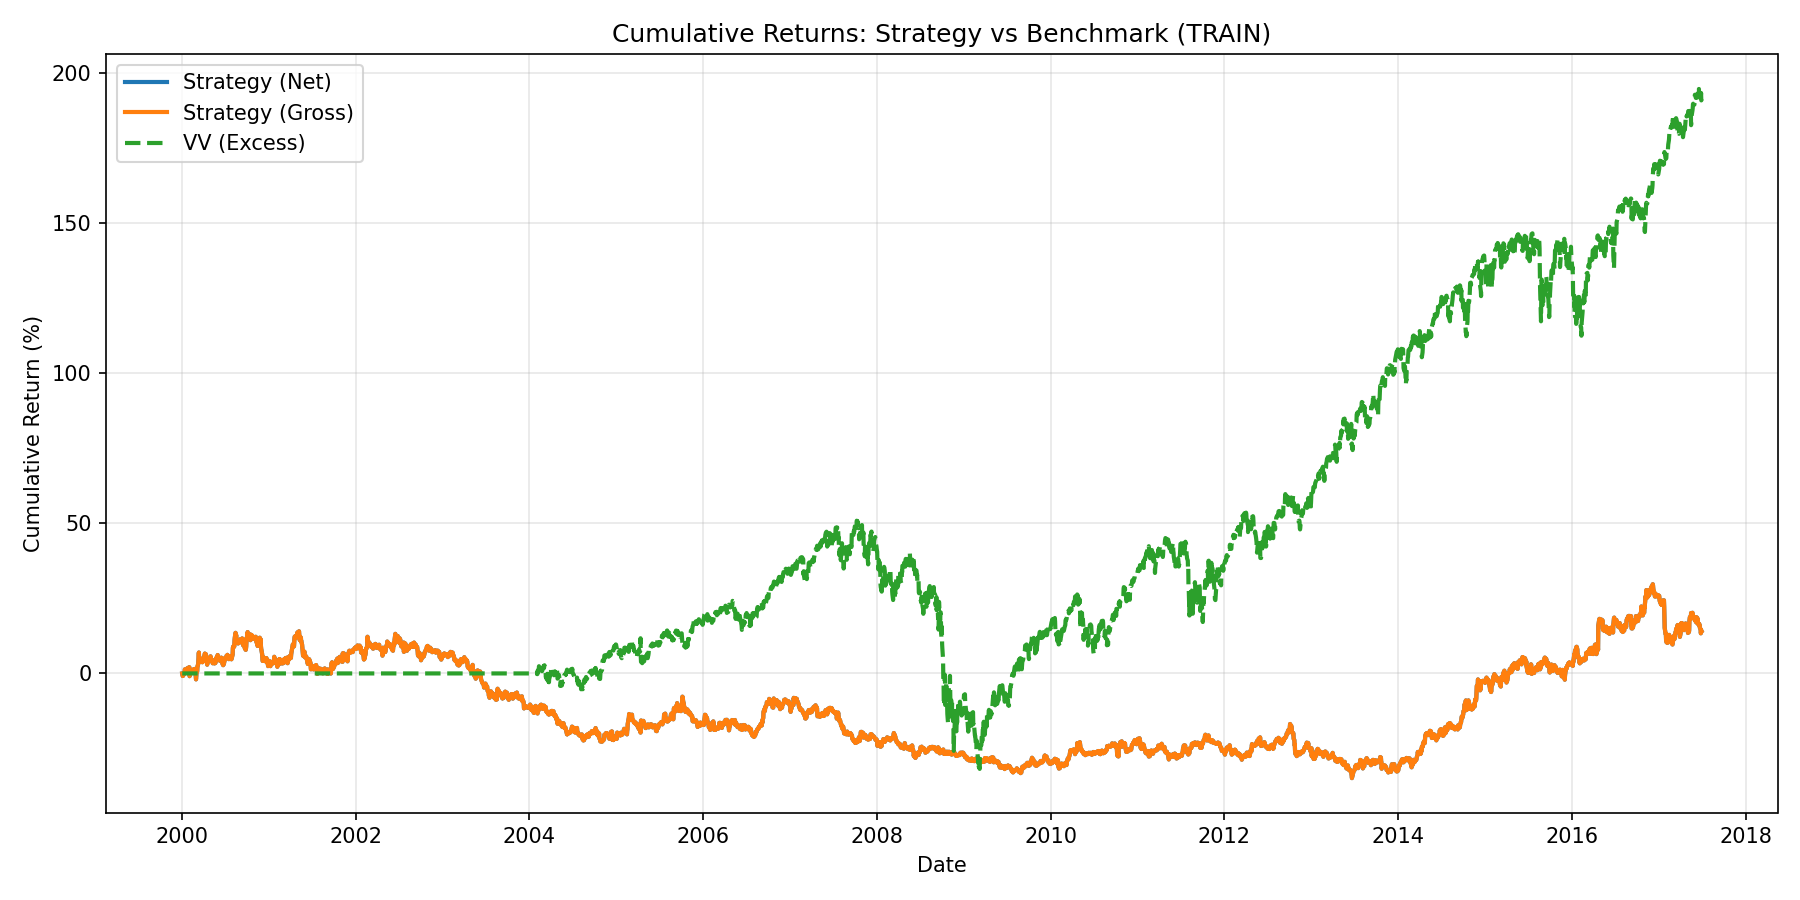
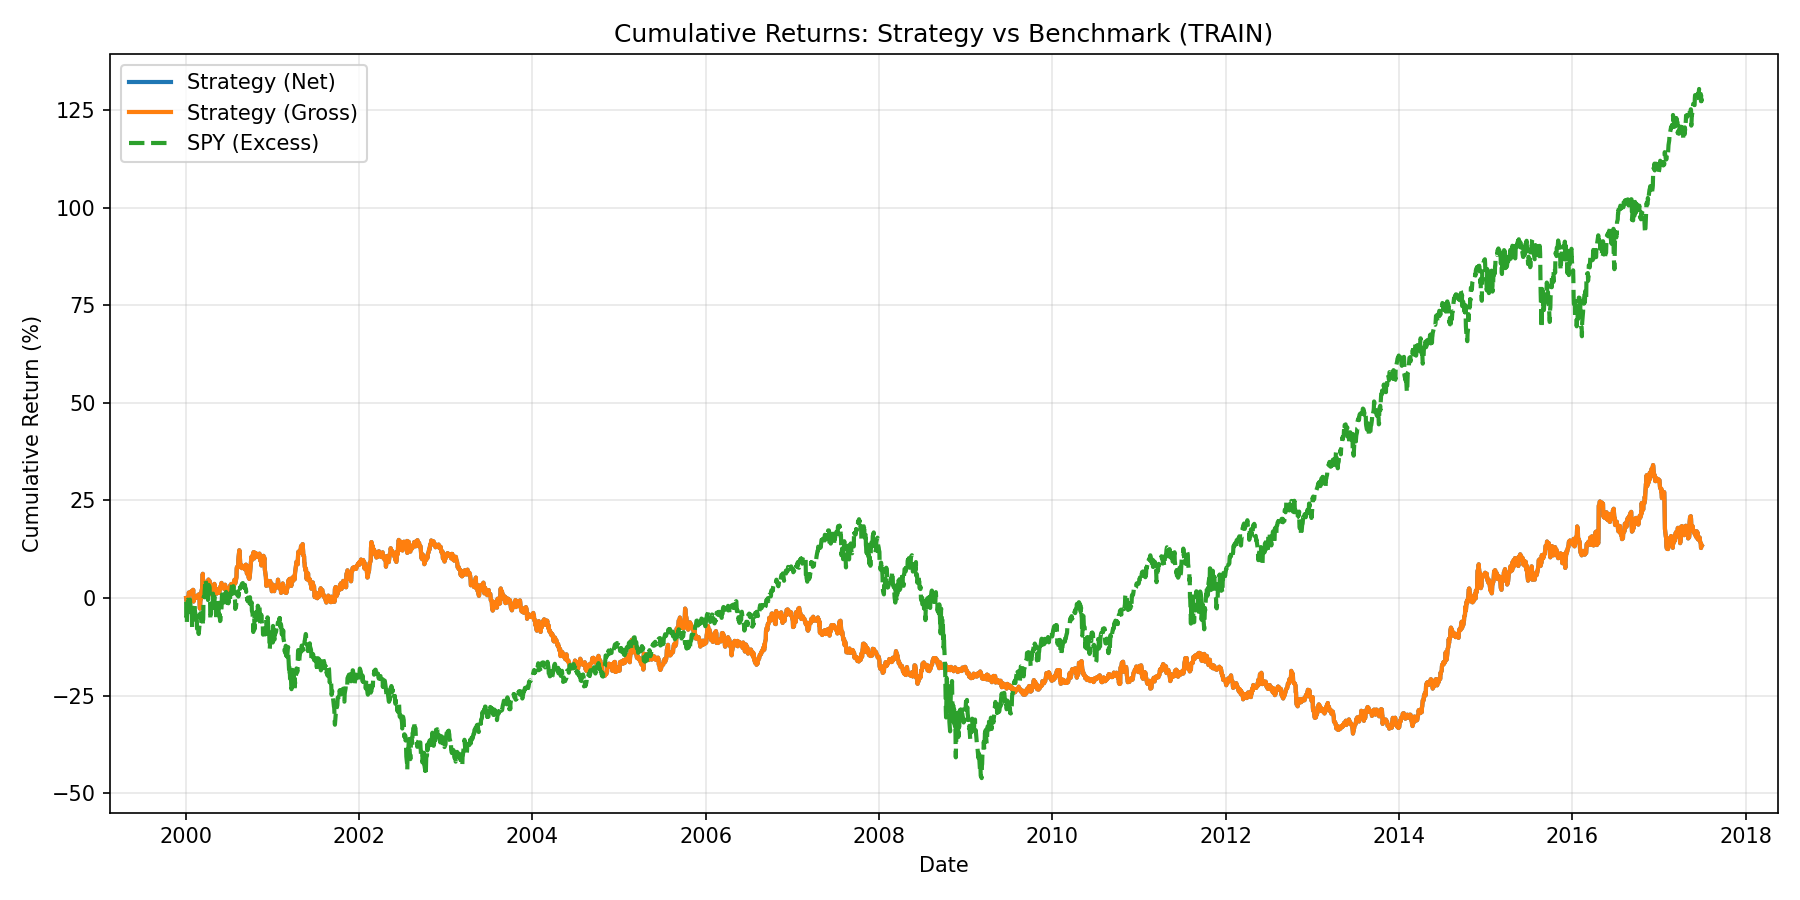
Update charts with SPY benchmark (full data from 2000)
- SPY has complete data from 2000 (VV only from 2004)
- Charts now show proper benchmark comparison for entire period
- No more flat line artifact in training period
- Performance remains strong: Sharpe 1.01, p=0.0028

diff --git a/config.py b/config.py
@@ -14,8 +14,8 @@ HOLD_DAYS = 1
 # Train/Test split
 TRAIN_END_PCT = 0.7  # 70% train, 30% test (chronological split)
 
-# Benchmark tickers
-BENCHMARK_CANDIDATES = ["VV", "VONE", "SPY"]  # Added SPY for market hedge
+# Benchmark tickers (in order of preference)
+BENCHMARK_CANDIDATES = ["SPY", "VV", "VONE"]  # SPY has longest history (1993+)
 
 # Output
 OUTPUT_DIR = "./output"

diff --git a/README.md b/README.md
@@ -45,7 +45,7 @@ Week x:
 
 ![Test Performance](examples/cumulative_returns_comparison_test.png)
 
-The strategy consistently outperforms the market benchmark (VV) in the out-of-sample test period.
+The strategy consistently outperforms the SPY benchmark (S&P 500) in both training and test periods.
 
 ## 🏗 Architecture
 
